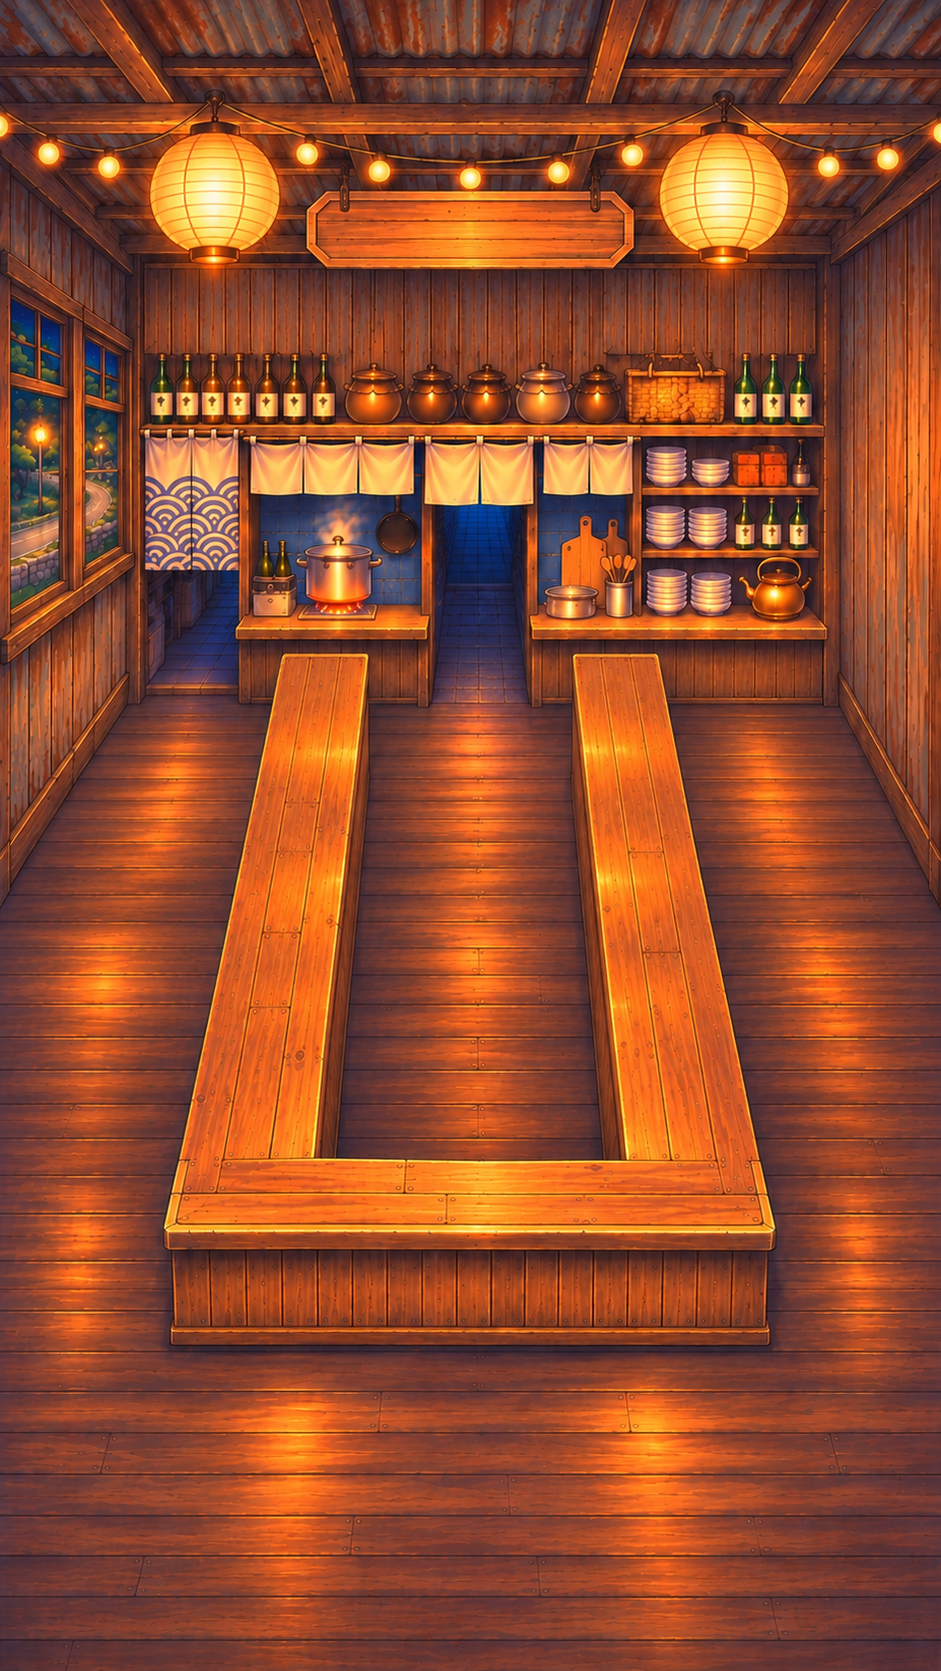
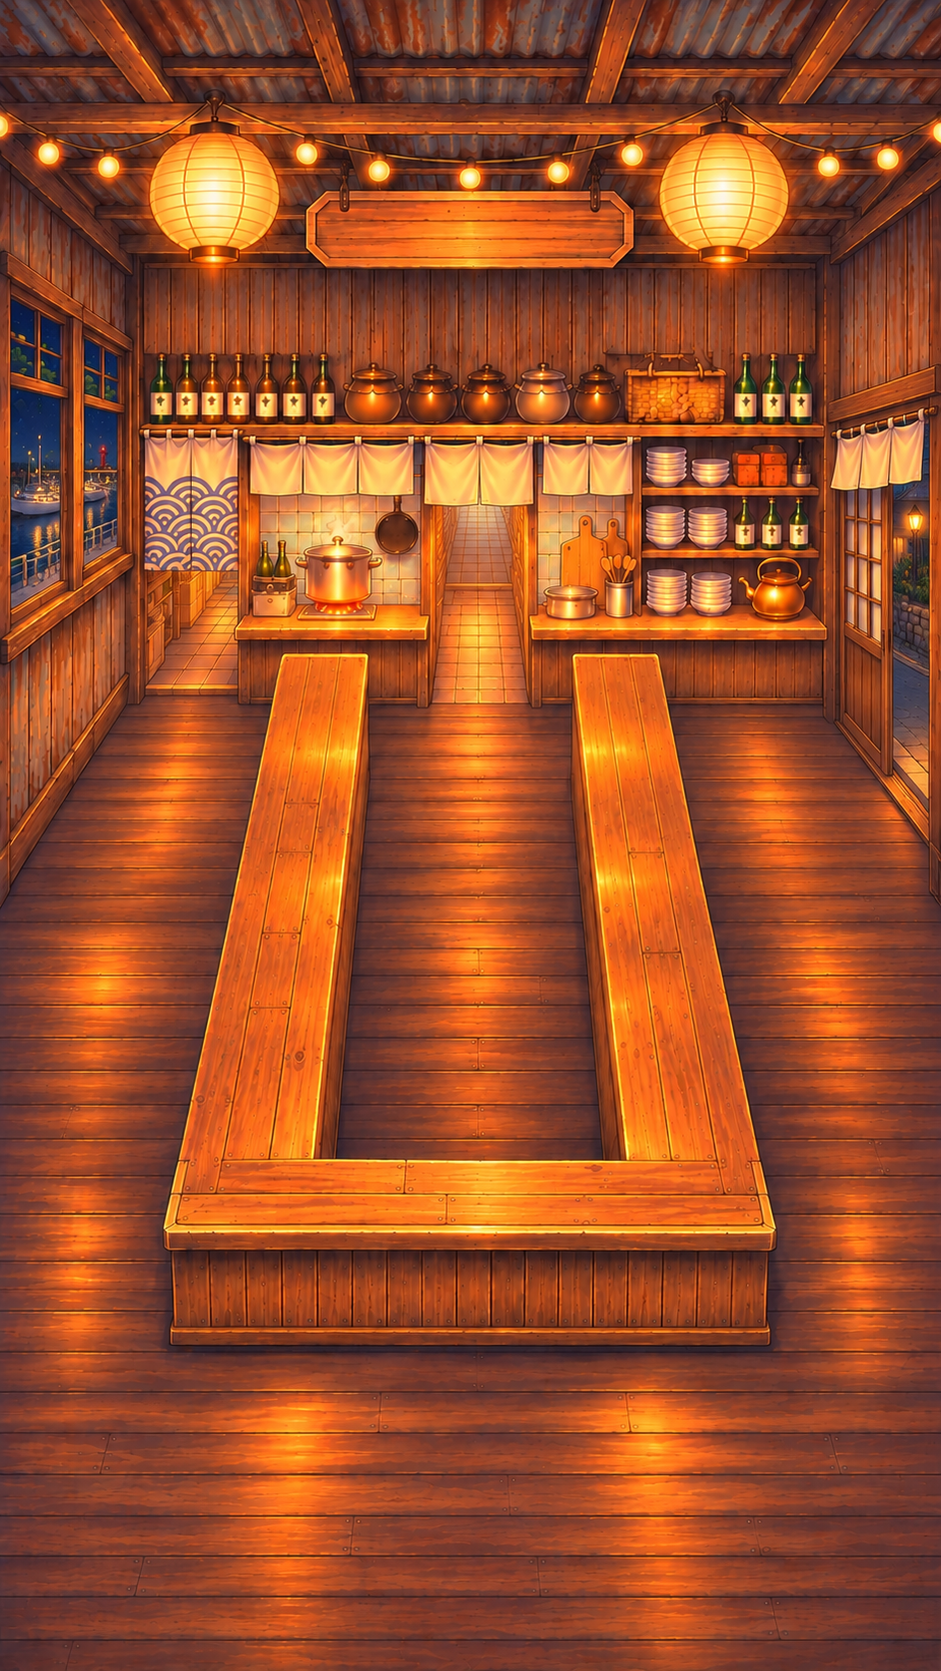
그림: 식당 오른쪽 벽에 입구, 왼쪽 창은 항구, 주방 밝게 [skip ci]
- 지도처럼 가로로 긴 가게라 오른쪽(길 쪽) 벽에 미닫이 입구, 왼쪽(항구 쪽) 창 너머 항구와 어선
- 주방 안을 크림색 타일과 밝은 조명으로. 바와 자리 위치는 같음

diff --git a/docs/그림_요청_목록.md b/docs/그림_요청_목록.md
@@ -147,7 +147,7 @@
 | 순서 | 파일 | 내용 | 지금 |
 |:---:|---|---|---|
 | ✅ 1-2 | `bg_shop2_inside_night.png`, `bg_shop2_inside_day.png` | **2호점용 보관 (사용자 11-11: "지금 뽑은 건 삭제하지 말고 나중에 2호점 같은 느낌으로 쓰자").** 1번과 같은 배치에 주방 위 창 세 개 너머로 항구 부두와 어선이 보이는 판. 원본 `docs/ref/배경/식당2호점_밤.png`, `낮.png` | 보관 |
-| ✅ 1 | `bg_shop_inside_night.png`, `bg_shop_inside_day.png` | **확정 (11-11): U자 바를 정면에서 본 판, 함석지붕 나무 건물 안.** 정면에서 약 25도 내려다본 거의 직교 투영(SD 150px 그대로). 사용자 11-11: "바깥은 굳이 안보여도 될 거 같아", "창문이 액자같아 그냥 창 없이 가자", "왼쪽창문은 살리자". 그래서 주방 위는 창 없는 나무 판자벽, 왼쪽 창 두 개(나무와 길)만 있고, 오른쪽은 이웃 가게와 붙은 빈 벽. 원본 `docs/ref/배경/식당_창없음_밤_1안.png`, `낮_1안.png`. 자리 비율은 아래 값 그대로(창만 지움). 위 1/3 주방(트인 출구가 안쪽 통로로), 양옆 바 바깥 4석씩, 앞 바 앞 2석, 아래는 십자키 자리. 가구 없는 바탕. 원본 `docs/ref/배경/식당_지도맞춤_밤_1안.png`, `낮_1안.png`(941x1671로 맞춤). 자리 비율(그림 전체 기준, 발끝): 주방 카운터 y 0.37, 출구 x 0.46~0.56, 완성 접시 (0.51, 0.37), 통로 x 0.39~0.61 y 0.40~0.69, 손님 왼쪽 x 0.13 / 오른쪽 0.87 y 0.48·0.57·0.66·0.75, 앞 바 손님 x 0.30·0.70 y 0.89, 바 위 장식 (0.31,0.48)(0.25,0.64)(0.69,0.48)(0.75,0.64), 벽 장식 (0.93,0.30)(0.07,0.45), 화분 (0.06,0.95)(0.94,0.95). 개발 세션에 전달함. 바로 앞 판(`식당_U자정면_밤_4안`)은 바다 위 정자처럼 그려져 지도와 달라 교체 | 확정 |
+| ✅ 1 | `bg_shop_inside_night.png`, `bg_shop_inside_day.png` | **확정 (11-11): U자 바를 정면에서 본 판, 함석지붕 나무 건물 안.** 정면에서 약 25도 내려다본 거의 직교 투영(SD 150px 그대로). 사용자 11-11: "바깥은 굳이 안보여도 될 거 같아", "창문이 액자같아 그냥 창 없이 가자", "왼쪽창문은 살리자", 이어서 "지도의 가게가 가로로 기니까 식당 내부 오른쪽 벽을 입구로 하면 좋겠어", "주방이 너무 어둡게". 그래서 주방 위는 창 없는 나무 판자벽, 왼쪽(북쪽, 항구 쪽) 창 두 개 너머로 항구와 흰 어선과 작은 빨간 등대, 오른쪽(남쪽, 길 쪽) 벽 안쪽에 반쯤 열린 미닫이 입구와 무렴, 주방 안은 크림색 타일과 밝은 조명. 원본 `docs/ref/배경/식당_입구_밤_1안.png`, `낮_1안.png` (중간 판 `식당_창없음_*`도 보관). 자리 비율은 아래 값 그대로(창만 지움). 위 1/3 주방(트인 출구가 안쪽 통로로), 양옆 바 바깥 4석씩, 앞 바 앞 2석, 아래는 십자키 자리. 가구 없는 바탕. 원본 `docs/ref/배경/식당_지도맞춤_밤_1안.png`, `낮_1안.png`(941x1671로 맞춤). 자리 비율(그림 전체 기준, 발끝): 주방 카운터 y 0.37, 출구 x 0.46~0.56, 완성 접시 (0.51, 0.37), 통로 x 0.39~0.61 y 0.40~0.69, 손님 왼쪽 x 0.13 / 오른쪽 0.87 y 0.48·0.57·0.66·0.75, 앞 바 손님 x 0.30·0.70 y 0.89, 바 위 장식 (0.31,0.48)(0.25,0.64)(0.69,0.48)(0.75,0.64), 벽 장식 (0.93,0.30)(0.07,0.45), 화분 (0.06,0.95)(0.94,0.95). 개발 세션에 전달함. 바로 앞 판(`식당_U자정면_밤_4안`)은 바다 위 정자처럼 그려져 지도와 달라 교체 | 확정 |
 | (지난 안) | | 위에서 본 U자 1~3안, 정면 U자 1~3안, 정면 두 단 1안(오해로 받은 판) 모두 `docs/ref/배경/식당_*`에 보관. 받는 과정에서 배운 것: SD를 게임 크기로 올려 본 확인 그림을 첨부하면 바 높이와 자리 크기가 맞게 나온다 | |
 | (지난 안) | | **정면 두 단 (오해)**. 정면 단면, 위 단: 주방 벽 → 서빙 통로 → 긴 바 → 손님 자리, 아래 단 같은 구성(뒤로 밤바다), 오른쪽 계단으로 연결, 맨 아래 1/6 데크(십자키 자리). 밤 분위기(깊은 남색, 종이 등, 알전구 줄, 술병 선반). 가구 없는 바탕. 코드 비율(바닥 영역 기준, 개발 세션 커밋 "식당 정면 두 단 배치"): 위 통로 y 0.24, 아래 통로 y 0.62, 통로 x 0.06~0.92, 계단 x 0.80~0.92, 손님 위 y 0.44 / 아래 y 0.84, x 0.14·0.32·0.50·0.68, 완성 접시 (0.4, 0.12), 바 위 장식 (0.23/0.59, 0.31/0.70), 벽 장식 (0.12/0.72, 0.10), 화분 (0.06/0.94, 0.97) | 1안 `docs/ref/배경/식당_정면두단_밤_1안.png`. 바 뒤 서빙 통로가 거의 없어 고칠 후보 |
 | 1-0 | `sd_guest/<id>_seat.png` | 앉은 뒷모습 한 줄 4칸: 기다림, 먹는 중, 만족, 화남. 바를 보고 앉아 등이 보임. 주문 말풍선은 코드가 머리 위에 띄움 | |
